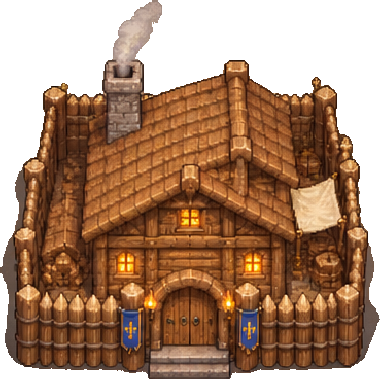
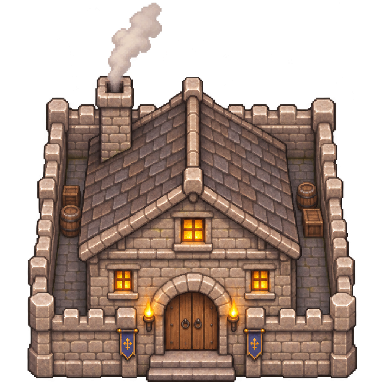
석조 영주관과 능률·거래·선택 표시 및 검증 화면 적용

diff --git a/game/src/panels.c b/game/src/panels.c
@@ -56,6 +56,7 @@ static void hud(GameApp *a) {
             if (ui_button(u, rect(740 + i * button_w, 9, button_w - 5, 36), labels[i], 1, 0, NULL))
                 game_app_open(a, panels[i]);
     }
+    int32_t daily[CORE_RES_COUNT]={0};core_expansion_daily_requirements(a->session.world,daily);
     for (int display = 0; display < CORE_RES_COUNT; display++) {
         i = core_expansion_display_resource(display);
         Texture2D icon = a->assets.resources[i];
@@ -63,11 +64,15 @@ static void hud(GameApp *a) {
         if (icon.id)
             DrawTexturePro(icon, (Rectangle){0, 0, (float)icon.width, (float)icon.height},
                            rect(x, ry, 20, 20), (Vector2){0, 0}, 0, WHITE);
-        ui_small(u, x + 24, ry + 1, UI_TEXT, "%s %d", fmt_resource_name(i), s->resources[i]);
+        const char *name=fmt_resource_name(i);
+        float label_width=MeasureTextEx(a->assets.font,name,u->font_size-3,0).x;
+        ui_small(u,x+24,ry+1,UI_TEXT,"%s",name);
+        Color amount_color=daily[i]>0 && (int64_t)s->resources[i]*1000<=daily[i]?UI_BAD:UI_TEXT;
+        ui_small(u,x+30+label_width,ry+1,amount_color,"%d",s->resources[i]);
         (void)snprintf(
             hint, sizeof(hint),
-            u8"%s\n어제 변화 %+d / 저장 한도 %d (0은 제한 없음)\n장부에서 항목별 수입·지출을 확인합니다.",
-            fmt_resource_name(i), s->resource_delta[i], s->resource_capacity[i]);
+            u8"%s\n어제 변화 %+d / 저장 한도 %d (0은 제한 없음)\n하루 필수 소비 %.2f 이하이면 재고 숫자가 빨강입니다.\n주민 식사·가축 사료·급여·유지비·겨울 난방 기준입니다.",
+            fmt_resource_name(i), s->resource_delta[i], s->resource_capacity[i],daily[i]/1000.0);
         if (CheckCollisionPointRec(GetMousePosition(), rect(x, ry, (width - 20) / 8, 25)))
             (void)snprintf(u->tooltip, sizeof(u->tooltip), "%s", hint);
     }
@@ -117,7 +122,7 @@ static void hud(GameApp *a) {
         colors[count++]=UI_BAD;
     } else if(s->threat_type){snprintf(lines[count],180,u8"위협: %s · %d일 %d시간 후",fmt_threat_name(s->threat_type),s->threat_ticks_left/144,s->threat_ticks_left%144/6);colors[count++]=UI_GOLD;}
     if(s->season==CORE_SEASON_AUTUMN||s->season==CORE_SEASON_WINTER) {
-        int days=s->season==CORE_SEASON_WINTER?13-s->day_of_season:12,need=(s->population*12*days+9)/10;
+        int days=s->season==CORE_SEASON_WINTER?13-s->day_of_season:12,need=s->population*days;
         snprintf(lines[count],180,u8"겨울 %d일분 식량 %d/%d",days,s->resources[CORE_RES_FOOD],need);colors[count++]=s->resources[CORE_RES_FOOD]<need?UI_BAD:UI_GOOD;
     }
     float status_y=141;
@@ -710,10 +715,13 @@ static void market(GameApp *a, int contracts) {
             CoreBuildingView *shop=&s->buildings[n];core_expansion_facility(s->world,shop->id,shop->type,shop->x,shop->y,shop->rotation,&trade);break;
         }
         ui_small(&a->ui,b.x+30,b.y+74,UI_TEXT,u8"거래 %d / %d개 · 기준 %d · 직원 E %.2f · 보정 %+d개",trade.trade_used,trade.trade_limit,trade.trade_base,trade.trade_efficiency/100.0,trade.trade_limit-trade.trade_base);
-        ui_small(&a->ui,b.x+30,b.y+101,trade.present?UI_MUTED:UI_BAD,u8"현장 %d명 · 다음 재입고 %d일 · %s",trade.present,trade.trade_next_day,trade.present?u8"직원 변경은 한도에 즉시 반영 · 사용량 유지":u8"현재 근무 직원 없음 · 09~18시 근무");
-        y = scroll_start(a, b, 14, 64) + 72;
-        for (int display = 1; display < 15; display++, y += 64) {
+        ui_small(&a->ui,b.x+30,b.y+101,trade.present?UI_MUTED:UI_BAD,u8"현장 %d명 · 다음 재입고 %d일 · %s",trade.present,trade.trade_next_day,trade.present?u8"직원 변경은 한도에 즉시 반영 · 사용량 유지":u8"현재 근무 직원 없음 · 08~17시 근무");
+        int goods=0;for(int resource=1;resource<15;resource++)goods+=core_expansion_tradable(s->world,resource);
+        y = scroll_start(a, b, goods, 64) + 72;
+        for (int display = 1; display < 15; display++) {
             i = core_expansion_display_resource(display);
+            if(!core_expansion_tradable(s->world,i))continue;
+            float row=y;y+=64;
             CoreTradeQuote q1, q10, qs;
             core_expansion_quote(s->world, i, 1, &q1);
             core_expansion_quote(s->world, i, 10, &q10);
@@ -722,11 +730,11 @@ static void market(GameApp *a, int contracts) {
             char label[96];
             int enabled = m.open && q1.reason != CORE_DENY_NOT_TRADABLE,
                 stock = core_expansion_market_stock(s->world, i);
-            if (y < b.y + 148 || y + 54 > b.y + b.height - 45)
+            if (row < b.y + 148 || row + 54 > b.y + b.height - 45)
                 continue;
-            ui_small(&a->ui, b.x + 30, y + 8, UI_TEXT, u8"%s · 보유 %d / 재고 %d", fmt_resource_name(i),
-                     s->summary.resources[i], stock);
-            ui_small(&a->ui, b.x + 30, y + 31, UI_MUTED, u8"매수 %.2f금/개 · %+.2f%%", q1.unit_cents / 100.0,
+            ui_small(&a->ui, b.x + 30, row + 8, UI_TEXT, u8"%s · 보유 %d", fmt_resource_name(i),s->summary.resources[i]);
+            ui_small(&a->ui,b.x+210,row+8,stock==0?UI_BAD:UI_TEXT,u8"재고 %d",stock);
+            ui_small(&a->ui, b.x + 30, row + 31, UI_MUTED, u8"매수 %.2f금/개 · %+.2f%%", q1.unit_cents / 100.0,
                      q1.rate_bp / 100.0);
             char quote_tip[512];
             snprintf(quote_tip, sizeof(quote_tip),
@@ -734,22 +742,22 @@ static void market(GameApp *a, int contracts) {
                      u8"%.2f금/개 · 일일 잔여 %d개\n주문별 실제 총액은 반올림 잔액을 포함합니다.",
                      q1.unit_cents / 100.0, q1.rate_bp / 100.0, q1.season_bp / 100.0, q1.event_bp / 100.0,
                      q1.pressure_bp / 100.0, qs.unit_cents / 100.0, q1.remaining);
-            if (CheckCollisionPointRec(GetMousePosition(), rect(b.x + 25, y, b.width - 50, 58)))
+            if (CheckCollisionPointRec(GetMousePosition(), rect(b.x + 25, row, b.width - 50, 58)))
                 snprintf(a->ui.tooltip, sizeof(a->ui.tooltip), "%s", quote_tip);
             (void)snprintf(label, sizeof(label), u8"1개 구매 %d금", q1.total_gold);
-            if (ui_button(&a->ui, rect(b.x + b.width - 610, y, 180, 38), label, enabled && !q1.reason, 0,
+            if (ui_button(&a->ui, rect(b.x + b.width - 610, row, 180, 38), label, enabled && !q1.reason, 0,
                           quote_tip)) {
                 int rc = core_trade(s->world, i, 1, &gold, &reason);
                 command(a, rc, reason);
             }
             (void)snprintf(label, sizeof(label), u8"10개 구매 %d금", q10.total_gold);
-            if (ui_button(&a->ui, rect(b.x + b.width - 420, y, 180, 38), label, enabled && !q10.reason, 0,
+            if (ui_button(&a->ui, rect(b.x + b.width - 420, row, 180, 38), label, enabled && !q10.reason, 0,
                           quote_tip)) {
                 int rc = core_trade(s->world, i, 10, &gold, &reason);
                 command(a, rc, reason);
             }
             (void)snprintf(label, sizeof(label), u8"10개 판매 %d금", qs.total_gold);
-            if (ui_button(&a->ui, rect(b.x + b.width - 230, y, 190, 38), label, enabled && !qs.reason, 0,
+            if (ui_button(&a->ui, rect(b.x + b.width - 230, row, 190, 38), label, enabled && !qs.reason, 0,
                           quote_tip)) {
                 int rc = core_trade(s->world, i, -10, &gold, &reason);
                 command(a, rc, reason);
@@ -902,9 +910,10 @@ static void assign(GameApp *a) {
         CoreBuildingView *job=building?fixed:&s->buildings[i];
         if(!v||!job||(!building&&(!job->worker_slots||job->state!=CORE_BSTATE_ACTIVE))||(building&&(v->incoming||v->state==CORE_VS_LEAVING)))continue;
         float row=y;y+=80;if(row+72<list.y||row>list.y+list.height)continue;
-        char work[120],tip[300];game_building_label(s,job->id,work,sizeof(work));
+        char work[120],tip[400];game_building_label(s,building?v->workplace_id:job->id,work,sizeof(work));
+        int32_t efficiency=100;core_expansion_efficiency(s->world,v->id,job->type,&efficiency);
         int field=job->job_field,minutes=field>=0?v->skill_minutes[field]:0;
-        snprintf(tip,sizeof(tip),u8"%s · %s · 숙련 %.1f일 · %s",v->name,work,minutes/540.0,fmt_villager_state(v->state));
+        snprintf(tip,sizeof(tip),u8"%s · 현재 일터 %s · 배치 대상 %s · E %.2f · 숙련 %.1f일 · %s",v->name,work,core_expansion_building_name(job->type),efficiency/100.0,minutes/540.0,fmt_villager_state(v->state));
         int is_tower=s->building_defs[job->type].category==CORE_CAT_TOWERS;
         if(is_tower && !building) {
             ui_box(rect(list.x,row,list.width,72),UI_BG);
@@ -919,7 +928,7 @@ static void assign(GameApp *a) {
         ui_small(&a->ui,list.x+79,row+7,UI_TEXT,u8"%s · %s",v->name,work);
         int values[5]={v->strength,v->agility,v->vitality,v->dexterity,v->intellect};
         game_stat_numbers(a,values,list.x+79,row+40,40);
-        ui_small(&a->ui,list.x+310,row+40,UI_MUTED,u8"숙련 %.1f일 · %s",minutes/540.0,fmt_villager_state(v->state));
+        ui_small(&a->ui,list.x+310,row+40,UI_MUTED,u8"E %.2f · 숙련 %.1f일 · %s",efficiency/100.0,minutes/540.0,fmt_villager_state(v->state));
     }
     ui_clip_end();
     if(maximum>0)ui_bar(rect(b.x+b.width-18,list.y,4,list.height),a->scroll/(float)maximum,UI_GOLD);

diff --git a/game/src/v122_ui.c b/game/src/v122_ui.c
@@ -55,7 +55,7 @@ static void life_icons(GameApp *a,float x,float y,int icon,int count,float propo
 static const char *const fields[12]={u8"농업",u8"임업",u8"광업",u8"축산",u8"어업",u8"수렵",u8"가공",u8"경비",u8"의료",u8"교역",u8"학술",u8"마법"};
 static const char *const skill_names[4]={u8"초보",u8"도제",u8"직인",u8"장인"};
 static Color skill_color(int level){return GetColor((unsigned[]){0x9CA3AFFF,0x6366F1FF,0xE11D48FF,0xFACC15FF}[level]);}
-static int skill_level(int minutes){return minutes>=75*540?3:minutes>=30*540?2:minutes>=8*540?1:0;}
+static int skill_level(int minutes){return minutes>=core_expansion_skill_threshold(3)?3:minutes>=core_expansion_skill_threshold(2)?2:minutes>=core_expansion_skill_threshold(1)?1:0;}
 float game_person_details(GameApp *a,const CoreVillagerView *v,float x,float y,float width) {
     GameUi *u=&a->ui;char label[180],job[120];game_building_label(&a->session,v->workplace_id,job,sizeof(job));
     game_portrait(a,v->appearance,area(x,y,64,64));
@@ -95,11 +95,14 @@ float game_person_details(GameApp *a,const CoreVillagerView *v,float x,float y,f
         DrawRectangleLinesEx(area(x+i%3*width/3,y+i/3*30,width/3-3,27),1,skill_color(level));
     }
     y+=127;int level=skill_level(v->skill_minutes[skill]);float days=v->skill_minutes[skill]/540.0f;
-    ui_small(u,x,y,skill_color(level),u8"%s · %s · %.1f/75일",fields[skill],skill_names[level],days);y+=26;
-    ui_bar(area(x,y,width,9),days/75.0f,skill_color(level));y+=17;
+    ui_small(u,x,y,skill_color(level),u8"%s · %s · %.1f/120일",fields[skill],skill_names[level],days);y+=26;
+    ui_bar(area(x,y,width,9),days/120.0f,skill_color(level));y+=17;
     if(level==3)ui_small(u,x,y,skill_color(level),u8"MAX · 장인");
-    else ui_small(u,x,y,UI_MUTED,u8"다음 단계까지 %.1f일",(int[]){8,30,75}[level]-days);
+    else ui_small(u,x,y,UI_MUTED,u8"다음 단계까지 %.1f일",core_expansion_skill_threshold(level+1)/540.0-days);
     y+=30;
+    int32_t efficiency=100;core_expansion_profession_efficiency(a->session.world,v->id,skill,&efficiency);
+    ui_small(u,x,y,UI_GOLD,u8"%s 능률 E %.2f",fields[skill],efficiency/100.0);y+=28;
+    if(skill==7) {int32_t ranged=100;core_expansion_efficiency(a->session.world,v->id,CORE_BLD_TOWER,&ranged);ui_small(u,x,y,UI_MUTED,u8"방어탑 능률 E %.2f",ranged/100.0);y+=26;}
     const char *const life_names[]={u8"행복도",u8"기분",u8"포만",u8"휴식",u8"안전"};
     float proportions[]={v->happiness/100.0f,(v->mood+200)/400.0f,v->hunger/100.0f,v->rest/100.0f,v->safety/100.0f};
     for(int i=0;i<5;i++) {
@@ -125,9 +128,20 @@ float game_person_details(GameApp *a,const CoreVillagerView *v,float x,float y,f
 float game_facility_details(GameApp *a,const CoreBuildingView *b,float x,float y,float width) {
     CoreFacilityView f;GameUi *u=&a->ui;
     if(core_expansion_facility(a->session.world,b->id,b->type,b->x,b->y,b->rotation,&f)!=CORE_OK)return y;
-    if(b->id)ui_small(u,x,y,UI_TEXT,u8"배치 %d/%d · 현장 %d · 누적 F %.2f",f.assigned,b->worker_slots,f.present,f.labor_milli/1000.0);
+    if(b->id)ui_small(u,x,y,UI_TEXT,u8"배치 %d/%d · 현장 %d · 일일 환산 %.2f",f.assigned,b->worker_slots,f.present,f.labor_milli/1000.0);
     else ui_small(u,x,y,UI_MUTED,u8"건설 후보 · 기준 F=1 · 근무 전");
     y+=28;
+    int32_t weights[5];
+    if(core_expansion_weights(b->type,weights)==CORE_OK) {
+        ui_small(u,x,y,UI_MUTED,u8"힘%d%% · 민첩%d%% · 체력%d%%",weights[0],weights[1],weights[2]);y+=24;
+        ui_small(u,x,y,UI_MUTED,u8"손재주%d%% · 지능%d%%",weights[3],weights[4]);y+=26;
+        int sum=0;
+        for(int i=0;i<a->session.villager_count;i++) {
+            const CoreVillagerView *worker=&a->session.villagers[i];if(!b->id || worker->workplace_id!=b->id)continue;
+            int32_t efficiency=0;core_expansion_efficiency(a->session.world,worker->id,b->type,&efficiency);sum+=efficiency;
+        }
+        ui_small(u,x,y,UI_GOLD,u8"총 능률 F %.2f (E의 합)",sum/100.0);y+=29;
+    }
     if(b->state==CORE_BSTATE_CONSTRUCTING) {
         ui_wrap(u,area(x,y,width,55),UI_GOLD,core_expansion_build_locked(a->session.world)?u8"습격 중 공사 중단 · 적 철수 완료 후 재개":u8"공사 중 · 생산 시작 전");y+=58;
     }
@@ -159,10 +173,13 @@ float game_facility_details(GameApp *a,const CoreBuildingView *b,float x,float y
         if(tower && schedule.shift!=group)continue;
         members++;
         char label[180];snprintf(label,sizeof(label),u8"%s · %s%s",v->name,v->mission==CORE_MISSION_SCOUT?u8"정찰":v->mission==CORE_MISSION_PATROL?u8"순찰":fmt_villager_state(v->state),v->id==b->combat_guard_id?u8" · 전투 담당":"");
-        if(ui_button(u,area(x,y,width,48),"",1,0,label))game_select(a,2,v->id);
+        if(ui_button(u,area(x,y,width,92),"",1,0,label))game_select(a,2,v->id);
         game_portrait(a,v->appearance,area(x+3,y+3,42,42));
         ui_small(u,x+52,y+3,UI_TEXT,"%s",v->name);
-        ui_small(u,x+52,y+25,UI_MUTED,"%s%s",v->id==b->combat_guard_id?u8"전투 담당 · ":"",fmt_villager_state(v->state));y+=55;
+        ui_small(u,x+52,y+25,UI_MUTED,"%s%s",v->id==b->combat_guard_id?u8"전투 담당 · ":"",fmt_villager_state(v->state));
+        int values[5]={v->strength,v->agility,v->vitality,v->dexterity,v->intellect};
+        game_stat_numbers(a,values,x+7,y+59,36);int32_t efficiency=0;core_expansion_efficiency(a->session.world,v->id,b->type,&efficiency);
+        ui_small(u,x+width-96,y+59,UI_GOLD,"E %.2f",efficiency/100.0);y+=99;
     }
     if(tower && !members){ui_small(u,x,y,UI_BAD,u8"미배치");y+=29;}
     if(tower && !members && ui_button(u,area(x,y,width,30),group?u8"야간 일꾼 선택":u8"주간 일꾼 선택",1,0,NULL)) {

diff --git a/game/src/main.c b/game/src/main.c
@@ -82,7 +82,7 @@ static int options(int argc,char **argv,Options *o)
         } else
             return 0;
     }
-    if (strcmp(o->screen,"title") && strcmp(o->screen,"game") && strcmp(o->screen,"villagers") && strcmp(o->screen,"population") && strcmp(o->screen,"rotations") && strcmp(o->screen,"connections") && strcmp(o->screen,"research") && strcmp(o->screen,"rank") && strcmp(o->screen,"market") && strcmp(o->screen,"load") && strcmp(o->screen,"uniforms") && strcmp(o->screen,"farms") && strcmp(o->screen,"raid") && strcmp(o->screen,"alerts") && strcmp(o->screen,"tower") && strcmp(o->screen,"assign") && strcmp(o->screen,"effects")) return 0;
+    if (strcmp(o->screen,"title") && strcmp(o->screen,"game") && strcmp(o->screen,"villagers") && strcmp(o->screen,"population") && strcmp(o->screen,"rotations") && strcmp(o->screen,"connections") && strcmp(o->screen,"research") && strcmp(o->screen,"rank") && strcmp(o->screen,"market") && strcmp(o->screen,"load") && strcmp(o->screen,"uniforms") && strcmp(o->screen,"farms") && strcmp(o->screen,"raid") && strcmp(o->screen,"alerts") && strcmp(o->screen,"tower") && strcmp(o->screen,"assign") && strcmp(o->screen,"effects") && strcmp(o->screen,"selection") && strcmp(o->screen,"demolition") && strcmp(o->screen,"workforce") && strcmp(o->screen,"trade") && strcmp(o->screen,"skills")) return 0;
     return 1;
 }
 void game_app_notice(GameApp *a,const char *text)
@@ -278,10 +278,29 @@ static int smoke(GameApp *a,const Options *o)
 }
 static void screenshot_screen(GameApp *a,const Options *o)
 {
+    if(strcmp(o->screen,"demolition"))SetMousePosition(GetScreenWidth()-3,GetScreenHeight()-3);
     if (!strcmp(o->screen,"title")) { a->panel=PANEL_TITLE; a->in_game=0; return; }
     (void)game_session_new(&a->session,u8"바람언덕",o->seed,o->difficulty); enter_game(a);
     /* 명시적인 촬영 모드의 재현 자료이며 정상 자동플레이 평가에는 사용하지 않습니다. */
     if(!strcmp(o->screen,"effects")){a->speed=0;return;}
+    if(!strcmp(o->screen,"selection")||!strcmp(o->screen,"demolition")||!strcmp(o->screen,"workforce")||!strcmp(o->screen,"trade")||!strcmp(o->screen,"skills")) {
+        World *w=a->session.world;int trade=!strcmp(o->screen,"trade")||!strcmp(o->screen,"skills");
+        int type=trade?CORE_BLD_MARKET:CORE_BLD_FARM;Building *b=entity_add_building(w,type);
+        if(b) {
+            const ExpansionBuildingSpec *spec=expansion_spec(type);
+            b->x=w->keep_x-6;b->y=w->keep_y+2;b->w=spec->w;b->h=spec->h;b->door_x=b->x+b->w/2;b->door_y=b->y+b->h;b->state=CORE_BSTATE_ACTIVE;b->hp=w->defs.buildings[type].max_hp;
+            expansion_v122_numbers(w);expansion_rebuild(w);Villager *v=w->villagers[0];
+            (void)core_assign_worker(w,v->id,b->id);v->at_target=1;v->target=b;v->target_x=b->door_x;v->target_y=b->door_y;v->state=CORE_VS_WORKING;v->meal_day=1;
+            v->current_x_milli=b->door_x*1000+500;v->current_y_milli=b->door_y*1000+500;v->skill_minutes[spec->field]=40*540;
+            w->clock.tick=60;w->bank.amount[CORE_RES_FOOD]=1;w->bank.amount[CORE_RES_GOLD]=0;w->expansion->trade_stock[CORE_RES_FOOD]=0;
+            expansion_visibility(w);(void)game_session_refresh(&a->session);game_select(a,1,b->id);
+            if(!strcmp(o->screen,"workforce"))a->panel=PANEL_ASSIGN;
+            if(trade)a->panel=PANEL_MARKET;
+            if(!strcmp(o->screen,"skills")){a->panel=PANEL_NONE;game_select(a,2,v->id);a->skill_tab=9;a->inspector_scroll=350;}
+            if(!strcmp(o->screen,"demolition")){a->demolish=1;SetMousePosition(260,340);}
+        }
+        a->speed=0;return;
+    }
     if(!strcmp(o->screen,"raid")) {
         World *w=a->session.world;
         (void)threat_debug_raid(w,CORE_THREAT_BANDITS,CORE_DIR_EAST,5);Raid *r=&w->threat.raid;r->type=6;

diff --git a/game/src/render.c b/game/src/render.c
@@ -303,8 +303,7 @@ static void villager(GameApp *a, int index) {
                                 moving || (unit->indoor > 0 && unit->indoor < 1));
     Rectangle dest = box_rect(game_actor_sprite(p.x, p.y, GAME_ACTOR_HEIGHT));
     Texture2D clothes=a->assets.villagers;
-    if(unit->outfit>0 && unit->outfit<=4 && v->workplace_id &&
-        (v->job==CORE_BLD_HUNTER_CAMP || v->job==CORE_BLD_HUNTING_LODGE || v->job==CORE_BLD_BARRACKS || v->job==CORE_BLD_GARRISON) && v->state==CORE_VS_GUARD_POST) {
+    if(unit->outfit>0 && unit->outfit<=4) {
         int dir=unit->facing==FACE_LEFT?1:unit->facing;
         if(dir<0 || dir>2)dir=0;
         int attacking=unit->attack_serial && unit->attack_elapsed<4.8f;
@@ -460,8 +459,7 @@ static int draw_queue(GameApp *a) {
         a->draw_items[count++] = (GameDrawItem){(b->y + b->h) * 16.0f, DRAW_BUILDING, i, b->id};
         DrawEllipse((int)((b->x + b->w * 0.5f) * 16), (b->y + b->h) * 16 - 2, b->w * 8.0f, 3,
                     (Color){24, 21, 16, 65});
-        if (b->id == a->selected_building)
-            DrawRectangleLines(b->x * 16, b->y * 16, b->w * 16, b->h * 16, UI_GOLD);
+
     }
     for (i = 0; i < s->villager_count; i++) {
         CoreVillagerView *v = &s->villagers[i];
@@ -478,7 +476,7 @@ static int draw_queue(GameApp *a) {
             DrawEllipseLines((int)p.x, (int)p.y, 7, 3, UI_GOLD);
     }
     for (i = 0; i < s->enemy_count; i++)
-        if (s->enemies[i].hp > 0) {
+        if (s->enemies[i].hp > 0 && !s->enemies[i].pending_spawn) {
             Vector2 p = pixel(s->enemies[i].actor.position);
             if (s->visibility && s->visibility[(int)(p.y / 16) * w + (int)(p.x / 16)] < 2)
                 continue;
@@ -710,12 +708,12 @@ static void overlay(GameApp *a) {
     CorePlacementView preview;
     GameSession *s = &a->session;
     int mouse_on_map=world_mouse(a,&x,&y);
+    CoreBuildingView *outline=game_building(s,a->selected_building);
+    if(outline)DrawRectangleLinesEx((Rectangle){outline->x*16.0f,outline->y*16.0f,outline->w*16.0f,outline->h*16.0f},.7f,UI_GOLD);
     if(a->demolish && mouse_on_map) {
         Rectangle tile={x*16.0f,y*16.0f,16,16};
         DrawRectangleRec(tile,(Color){230,40,46,100});
-        DrawRectangleLinesEx(tile,1.8f,(Color){255,75,75,255});
-        DrawLineEx((Vector2){tile.x+3,tile.y+3},(Vector2){tile.x+13,tile.y+13},1.3f,WHITE);
-        DrawLineEx((Vector2){tile.x+13,tile.y+3},(Vector2){tile.x+3,tile.y+13},1.3f,WHITE);
+        DrawRectangleLinesEx(tile,.7f,(Color){255,75,75,255});
     }
     CoreBuildingView *selected=game_building(s,a->selected_building);
     int candidate=a->build_type>=0 && mouse_on_map;

diff --git a/tools/pack_ui_art.c b/tools/pack_ui_art.c
@@ -82,7 +82,16 @@ int main(int argc,char **argv) {
     argc=arguments.count;argv=arguments.values;
     SetTraceLogLevel(LOG_WARNING);
     const char *out="game/assets/expansion";
-    if(argc>1 && !strcmp(argv[1],"--check")) {
+    if(argc>1 && !strcmp(argv[1],"--manor")) {
+        Image manor=read_image("art/v122_patch2","colony_manor.png");
+        if(manor.data) {
+            ImageAlphaCrop(&manor,.1f);int maximum=manor.width>manor.height?manor.width:manor.height;
+            float scale=380.0f/maximum;ImageResizeNN(&manor,(int)(manor.width*scale+.5f),(int)(manor.height*scale+.5f));
+            Image canvas=GenImageColor(384,384,BLANK);
+            ImageDraw(&canvas,manor,(Rectangle){0,0,(float)manor.width,(float)manor.height},(Rectangle){(384-manor.width)/2.0f,382.0f-manor.height,(float)manor.width,(float)manor.height},WHITE);
+            write_image(out,"manor_0.png",canvas);UnloadImage(canvas);UnloadImage(manor);
+        }
+    } else if(argc>1 && !strcmp(argv[1],"--check")) {
         if(argc>2)out=argv[2];
         check(out,"portraits.png",8,6,64);check(out,"combat_fx.png",6,8,128);check(out,"factions.png",3,2,128);
     } else {

diff --git a/docs/V1_2_2_PATCH2.md b/docs/V1_2_2_PATCH2.md
@@ -1,0 +1,23 @@
+# v1.2.2 patch2
+
+요청: 습격 분산 출현·공유 시야 군사 출동·정체 복구, 실내 개인 시야, 실제 일터 환복, 식량/거래/숙련도 조정, 능률 표시, 영주관과 선택 테두리 개선.
+
+- 주민 식사: 합류한 주민 한 명당 하루 1.0, 하루 한 끼. 겨울 12일은 12.0/인, 승급의 식량 일수도 같은 기준. 가축 사료 수치는 유지합니다.
+- 숙련 실제 근무 시간: 도제 6,912분(12.8일), 직인 25,920분(48일), 장인 64,800분(120일). 기존 누적 근무 시간은 보존합니다. 능력치 경험치 성장 기준은 그대로입니다.
+- 재입고 기본량: 노점30 / 시장120 / 교역소390. 기본량 50% 증가 후 5개 단위 반올림. 능률 배율 M(E)=1+0.30×clamp((E−1)/6.5,0,1)−0.10×clamp((1−E)/0.75,0,1), E=0.25~7.5. 최종 재고도 5개 단위로 반올림합니다.
+- 재입고 기본 주기 4일. 기존 고능률 단축도 반영해 E≥2에서3일, E≥3에서2일입니다. 직원의 최근 실제 근무 능률을 보존해 06시 계산에 사용합니다. 실제 근무 기록이 없으면 E=1입니다. 일일 거래 한도는 재입고량과 별도의 기존 식입니다.
+- UI: 능력치 가중치와 개인 E, 총 F=ΣE는 현재 능력치·숙련·행복·건강·특성으로 코어에서 계산합니다. 일일 환산 노동과 총 능률을 구분합니다. 거래 불가 자원은 숨기고 재고0은 빨강, 일일 필수 지출 이하 재고 숫자도 빨강입니다.
+- 환복: 수렵/군사 일터 도착 → 실내 진입 → 환복 → 출동. 퇴근/다른 일터 배치 때에도 이전 일터로 돌아가 실내에서 평상복으로 바꿉니다. 환복 상태와 일터·완료 시각은 기존 저장10의 임무 필드에 보존합니다. 일터가 파괴되어 사라졌다면 평상복으로 복구합니다.
+- 그림: 내장 image_gen으로 기존 개척지/촌락 영주관을 참고해 회갈색 지붕의 단순 석조 영주관을 제작했습니다. 원화 art/v122_patch2/colony_manor.png, 실제 리소스 game/assets/expansion/manor_0.png. 촌락 이상은 기존 그림입니다.
+
+검증은 작업 완료 후 아래에 기록합니다.
+
+## 검증
+
+- MSVC Release / MinGW Release, 경고를 오류로 처리하는 빌드 성공. 전체 CTest 각각136/136 통과(236.87초 /107.32초).
+- 재입고 E=0.25/1/7.5 경계·단조성·정확한 5개 반올림, 1.6배 숙련 문턱, 식사 하루1회, 식량 없는 교역 근무, 실내 개인 시야와 이주민 시야 제외를 검사했습니다.
+- 같은 방향의 순차·분산 스폰, 대기 중 저장 복원, 병영 개인 시야 밖의 공유 시야 적 출동, 건물 안에 갇힌 적의 지속 공격, 네 종류 일터의 출퇴근 환복과 환복 중 저장 복원을 검사했습니다.
+- 실제 렌더러로 선택/철거/직접 배치/거래/직종 숙련 화면을1440×900·1024×720에서 확인했습니다. docs/screenshots/v122_patch2_*.png.
+- 저장10/ABI12를 유지합니다. 대기 중 적은 기존 런타임의 valid=2로 보존합니다. 이전 저장의 남은 재입고 대기 시간은 최대4일로 맞춥니다.
+
+3난이도×3시드, 최대60일9판을 완료했습니다. 오류0, 저장 생략0, 저장/복원 해시9/9 일치. docs/v122_patch2_checks.csv. 평가 로그 SHA256 39760180b24923b7e0ebaa6c30467805295c66756b5653158a14816d967f7686. 이번 검증은 변경 기능과 저장 안정성을 확인하며 장기 성장 목표·Linux ASan·사람의 장시간 수동 플레이를 재검증한 것은 아닙니다.

diff --git a/art/V122_PATCH2_PROMPT.md b/art/V122_PATCH2_PROMPT.md
@@ -1,0 +1,7 @@
+# 개척지 영주관 원화
+
+내장 image_gen 사용, 투명 PNG. 참조 game/assets/expansion/manor_0.png(이전 목조), manor_1.png(석재와 색감).
+
+프롬프트: 기존45도 탑뷰 픽셀 아트와 같은 비율로 단순한 개척지 석조 영주관 하나. 따뜻한 회색 석재 벽과 낮은 성가퀴, 아치형 나무문과 호박색 창문. 소박한 회갈색 슬레이트 지붕. 파란 지붕·높은 탑·깃발 없이 촌락 영주관보다 단순하고 소박하게. 전체 건물 중심 배치, 진짜 투명 배경, 글자·격자·별도 배경 없음.
+
+원화 art/v122_patch2/colony_manor.png → C 패커 castle_ui_art --manor → game/assets/expansion/manor_0.png(384×384).
